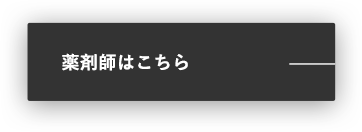
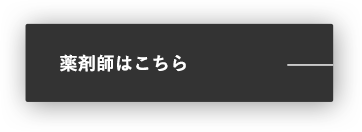
2022-0211

Changed region(s): [[0.0608, 0.1515, 0.942, 0.7879], [0.1519, 0.3939, 0.5166, 0.5455]]

diff --git a/css/recruit.css b/css/recruit.css
@@ -111,7 +111,7 @@
     top: 101%;
     left: 4%;
     font-size: 8.5vw;
-    font-size:clamp(30px, 7.5vw, 63px);
+    font-size: clamp(30px, 7.5vw, 63px);
     font-family: 'Shippori Mincho', serif;
     color: rgb(51, 51, 51);
     line-height: 1.308;
@@ -159,6 +159,7 @@
 
 .recruit_challenge_top_linkcont {
     display: none;
+
 }
 
 @media (min-width:750px) {
@@ -175,11 +176,32 @@
 .recruit_challenge_top_linkcont a {
     cursor: pointer;
     width: 48.88%;
+    position: relative;
 }
 
 
 .recruit_challenge_top_linkcont img {
+    position: absolute;
+    top: 50%;
+    left: 50%;
+    -webkit-transform: translate(-50%, -50%);
+    transform: translate(-50%, -50%);
     width: 100%;
+    display: block;
+    -webkit-transition: .4s ease-in-out;
+    transition: .4s ease-in-out;
+}
+
+.recruit_challenge_top_linkcont_btn01:hover .recruit_challenge_top_linkcont_hover01 {
+    opacity: 0;
+}
+
+.recruit_challenge_top_linkcont_btn02:hover .recruit_challenge_top_linkcont_hover02 {
+    opacity: 0;
+}
+
+.recruit_challenge_top_linkcont a {
+    opacity: 1;
 }
 
 .recruit_challenge_top_linkcont_sp {
@@ -202,11 +224,30 @@
 .recruit_challenge_top_linkcont_sp a {
     cursor: pointer;
     width: 48.88%;
+    position: relative;
+    opacity: 1;
+    margin-top: 7.5%;
 }
 
 
 .recruit_challenge_top_linkcont_sp img {
+    position: absolute;
+    top: 60%;
+    left: 50%;
+    -webkit-transform: translate(-50%, -50%);
+    transform: translate(-50%, -50%);
     width: 100%;
+    display: block;
+    -webkit-transition: .4s ease-in-out;
+    transition: .4s ease-in-out;
+}
+
+.recruit_challenge_top_linkcont_sp_btn01:hover .recruit_challenge_top_linkcont_sp_hover01 {
+    opacity: 0;
+}
+
+.recruit_challenge_top_linkcont_sp_btn02:hover .recruit_challenge_top_linkcont_sp_hover02 {
+    opacity: 0;
 }
 
 /* ------------  Challenge_explain  ------------ */
@@ -461,7 +502,7 @@
 }
 
 .recruit_personality_maincont_box p {
-    font-size: clamp(30px,7.5vw,58px);
+    font-size: clamp(30px, 7.5vw, 58px);
     font-size: 7.5vw;
     font-family: agenda;
     color: rgb(243, 239, 230);
@@ -472,7 +513,7 @@
 
 @media (min-width:750px) {
     .recruit_personality_maincont_box p {
-        font-size: clamp(35px,4.19vw,58px);
+        font-size: clamp(35px, 4.19vw, 58px);
         padding-right: 14px;
     }
 }
@@ -647,6 +688,19 @@
 .recruit_personality_maincont_box_left img, .recruit_personality_maincont_box_right img {
     width: 100%;
     height: 100%;
+    position: absolute;
+}
+
+.recruit_personality_maincont_box_right img:hover {
+    opacity: 0;
+}
+
+.recruit_personality_maincont_box_left img:hover {
+    opacity: 0;
+}
+
+.recruit_personality_maincont_box_left a, .recruit_personality_maincont_box_right a {
+opacity: 1;
 }
 
 /* ------------  Pharmacist  ------------ */
@@ -774,7 +828,7 @@
 
 @media (min-width:750px) {
     .recuit_pharmacist_main_text h2 {
-        font-size: clamp(14px,1.4vw,21px);
+        font-size: clamp(14px, 1.4vw, 21px);
         line-height: 1.8;
         margin-bottom: 7%;
     }
@@ -801,6 +855,7 @@
 .recuit_pharmacist_main_linkcont {
     width: 66.66%;
     margin: 60px auto 0;
+    position: relative;
 }
 
 @media (min-width:750px) {
@@ -811,23 +866,47 @@
     }
 }
 
+
 .recuit_pharmacist_main_linkcont img {
     width: 100%;
+    position: absolute;
+    top: 50%;
+    left: 50%;
+    -webkit-transform: translate(-50%, -50%);
+    transform: translate(-50%, -50%);
+    display: block;
+    -webkit-transition: .4s ease-in-out;
+    transition: .4s ease-in-out;
 }
 
 @media (min-width:750px) {
     .recuit_pharmacist_main_linkcont img {
         width: 28.25%;
+        top: 50%;
+        left: 13%;
     }
 }
+
+.recuit_pharmacist_main_linkcont img:hover {
+    opacity: 0;
+}
+
+
+.recuit_pharmacist_main_linkcont a {
+    opacity: 1;
+}
+
+
+
 
 
 .recuit_pharmacist_main_interview {
     display: block;
     width: 92%;
-    margin: 0 auto;
+    margin: 35% auto 0;
     position: relative;
 }
+
 
 @media (min-width:750px) {
     .recuit_pharmacist_main_interview {
@@ -836,6 +915,7 @@
         width: 680px;
         justify-content: space-between;
         padding-left: 10%;
+        margin: 100px auto 0;
     }
 }
 
@@ -874,7 +954,7 @@
 
 @media (min-width:750px) {
     .recuit_pharmacist_main_interview_title_main {
-        font-size: clamp(54px,7.15vw,100px);
+        font-size: clamp(54px, 7.15vw, 100px);
         line-height: 0.72;
     }
 }
@@ -892,7 +972,7 @@
 
 @media (min-width:750px) {
     .recuit_pharmacist_main_interview_title_sub {
-        font-size: clamp(11px,1.5vw,21px);
+        font-size: clamp(11px, 1.5vw, 21px);
         top: 30%;
     }
 }
@@ -1174,6 +1254,7 @@
     position: absolute;
     top: 10%;
     left: -26%;
+    width: 45px;
 }
 
 @media (min-width:750px) {
@@ -1181,6 +1262,7 @@
         position: absolute;
         top: 30%;
         left: -2%;
+        width: 50px;
     }
 }
 
@@ -1188,15 +1270,34 @@
     position: absolute;
     top: 10%;
     right: -26%;
+    width: 45px;
 }
 
 @media (min-width:750px) {
     .recruit_welfare_main_right_arrow {
         position: absolute;
+        width: 50px;
         top: 30%;
         right: -2%;
     }
 }
+
+.recruit_welfare_main_right_arrow img, .recruit_welfare_main_left_arrow img {
+width: 100%;
+position: absolute;
+}
+
+.recruit_welfare_main_right_arrow img:hover {
+    opacity: 0;
+}
+
+.recruit_welfare_main_left_arrow img:hover {
+    opacity: 0;
+}
+
+.recruit_welfare_main a {
+    opacity: 1;
+    }
 
 .recruit_welfare_main_block {
     width: 92%;
@@ -1350,6 +1451,7 @@
     .recruit_education_item_detail h2 {
         font-size: 18px;
     }
+
     .recruit_education_item_detail h3 {
         font-size: 30px;
     }
@@ -1405,10 +1507,11 @@
     }
 }
 
-    @media (min-width: 1100px) {
+@media (min-width: 1100px) {
     .recuit_entry_message {
         font-size: 36px;
     }
+
     .recuit_entry_message_br {
         display: none;
     }

diff --git a/recruit.html b/recruit.html
@@ -129,12 +129,12 @@
         <li><img src="image/recruit/challenge03_sp.png" alt=""></li>
       </ul>
       <div class="recruit_challenge_top_linkcont">
-        <a href="#"><img src="image/recruit/challenge04.png" alt=""><img src="image/recruit/challenge04_hover.png" alt=""></a>
-        <a href="#"><img src="image/recruit/challenge05.png" alt=""></a>
+        <a class="recruit_challenge_top_linkcont_btn01" href="#"><img src="image/recruit/challenge04_hover.png" alt=""><img class="recruit_challenge_top_linkcont_hover01" src="image/recruit/challenge04.png" alt=""></a>
+        <a class="recruit_challenge_top_linkcont_btn02" href="#"><img src="image/recruit/challenge05_hover.png" alt=""><img class="recruit_challenge_top_linkcont_hover02"  src="image/recruit/challenge05.png" alt=""></a>
       </div>
       <div class="recruit_challenge_top_linkcont_sp">
-        <a href="#"><img src="image/recruit/challenge04_sp.png" alt=""></a>
-        <a href="#"><img src="image/recruit/challenge05_sp.png" alt=""></a>
+        <a class="recruit_challenge_top_linkcont_sp_btn01" href="#"><img src="image/recruit/challenge04_sp_hover.png" alt=""><img class="recruit_challenge_top_linkcont_sp_hover01" src="image/recruit/challenge04_sp.png" alt=""></a>
+        <a class="recruit_challenge_top_linkcont_sp_btn02" href="#"><img src="image/recruit/challenge05_sp_hover.png" alt=""><img class="recruit_challenge_top_linkcont_sp_hover02" src="image/recruit/challenge05_sp.png" alt=""></a>
       </div>
     </div>
   </div>
@@ -196,12 +196,12 @@
       </div>
       <div class="recruit_personality_maincont_box_left">
         <a href="">
-          <img src="image/common/left_arrow.png" alt="">
+          <img src="image/common/left_arrow_hover.png" alt=""><img src="image/common/left_arrow.png" alt="">
       </div>
       </a>
       <div class="recruit_personality_maincont_box_right">
         <a href="">
-          <img src="image/common/right_arrow.png" alt="">
+          <img src="image/common/right_arrow_hover.png" alt=""><img src="image/common/right_arrow.png" alt="">
       </div>
       </a>
     </div>
@@ -224,7 +224,7 @@
       </div>
     </div>
     <div class="recuit_pharmacist_main_linkcont">
-      <a href="#"><img src="image/recruit/pharmacist05.png" alt=""></a>
+      <a href="#"><img class="recuit_pharmacist_main_linkcont_hover02" src="image/recruit/pharmacist05_hover.png" alt=""><img class="recuit_pharmacist_main_linkcont_hover01" src="image/recruit/pharmacist05.png" alt=""></a>
     </div>
 
     <div class="recuit_pharmacist_main_interview">
@@ -286,7 +286,7 @@
       </div>
     </div>
     <div class="recuit_pharmacist_main_linkcont">
-      <a href="#"><img src="image/recruit/regular05.png" alt=""></a>
+      <a href="#"><img src="image/recruit/regular05_hover.png" alt=""><img src="image/recruit/regular05.png" alt=""></a>
     </div>
 
     <div class="recuit_pharmacist_main_interview">
@@ -336,8 +336,8 @@
     <h1>福利厚生・制度</h1>
     <hr>
     <ul class="recruit_welfare_main">
-      <a class="recruit_welfare_main_left_arrow" href="#"><img src="image/common/left_arrow.png" alt=""></a>
-      <a class="recruit_welfare_main_right_arrow" href="#"><img src="image/common/right_arrow.png" alt=""></a>
+      <a class="recruit_welfare_main_left_arrow" href="#"><img src="image/common/left_arrow_hover.png" alt=""><img src="image/common/left_arrow.png" alt=""></a>
+      <a class="recruit_welfare_main_right_arrow" href="#"><img src="image/common/right_arrow_hover.png" alt=""><img src="image/common/right_arrow.png" alt=""></a>
       <li class="recruit_welfare_main_block">
         <img src="image/recruit/welfare01.png" alt="">
         <p>入社時配属は、希望エリア内での配属を考慮します。勤務地を選択することで「エリア内だけの配属となる”エリア社員”と他エリア配属もありの
